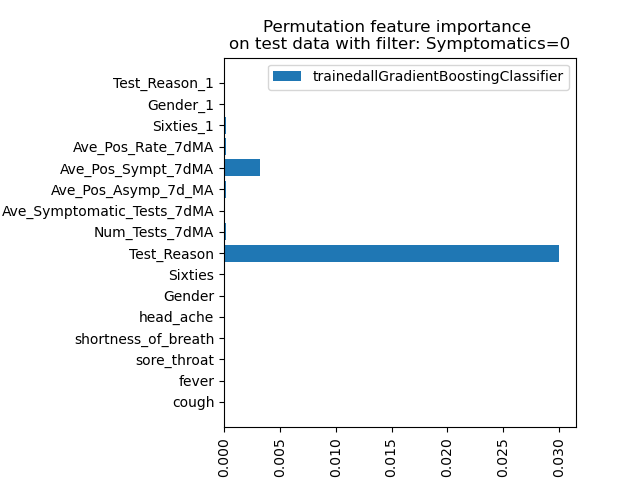
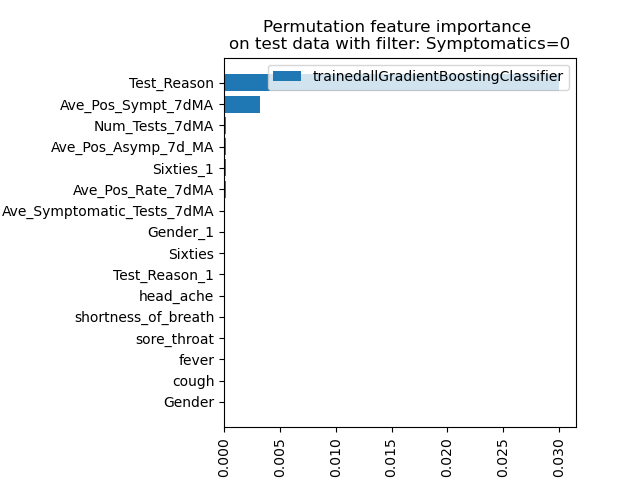
sorted feat importance plot

Changed region(s): [[0.125, 0.4688, 0.875, 0.875], [0.0625, 0.1562, 0.875, 0.4062]]

diff --git a/classification/classification.py b/classification/classification.py
@@ -270,6 +270,8 @@ for filtername in filter_order[:-1]:
         imp_val, imp_feat = importances[f"{best_models[filtername]}__{filtername}"]
     else:
         imp_val, imp_feat = importances[f"{filtername}__{best_models[filtername]}"]
+    sort_idx = np.argsort(imp_val)
+    imp_val, imp_feat = [imp_val[i] for i in sort_idx], [imp_feat[i] for i in sort_idx]
     fig, ax = plt.subplots()
     plt.barh(imp_feat, imp_val, label=best_models[filtername].replace('_',''))
     plt.xticks(rotation = 90)            
